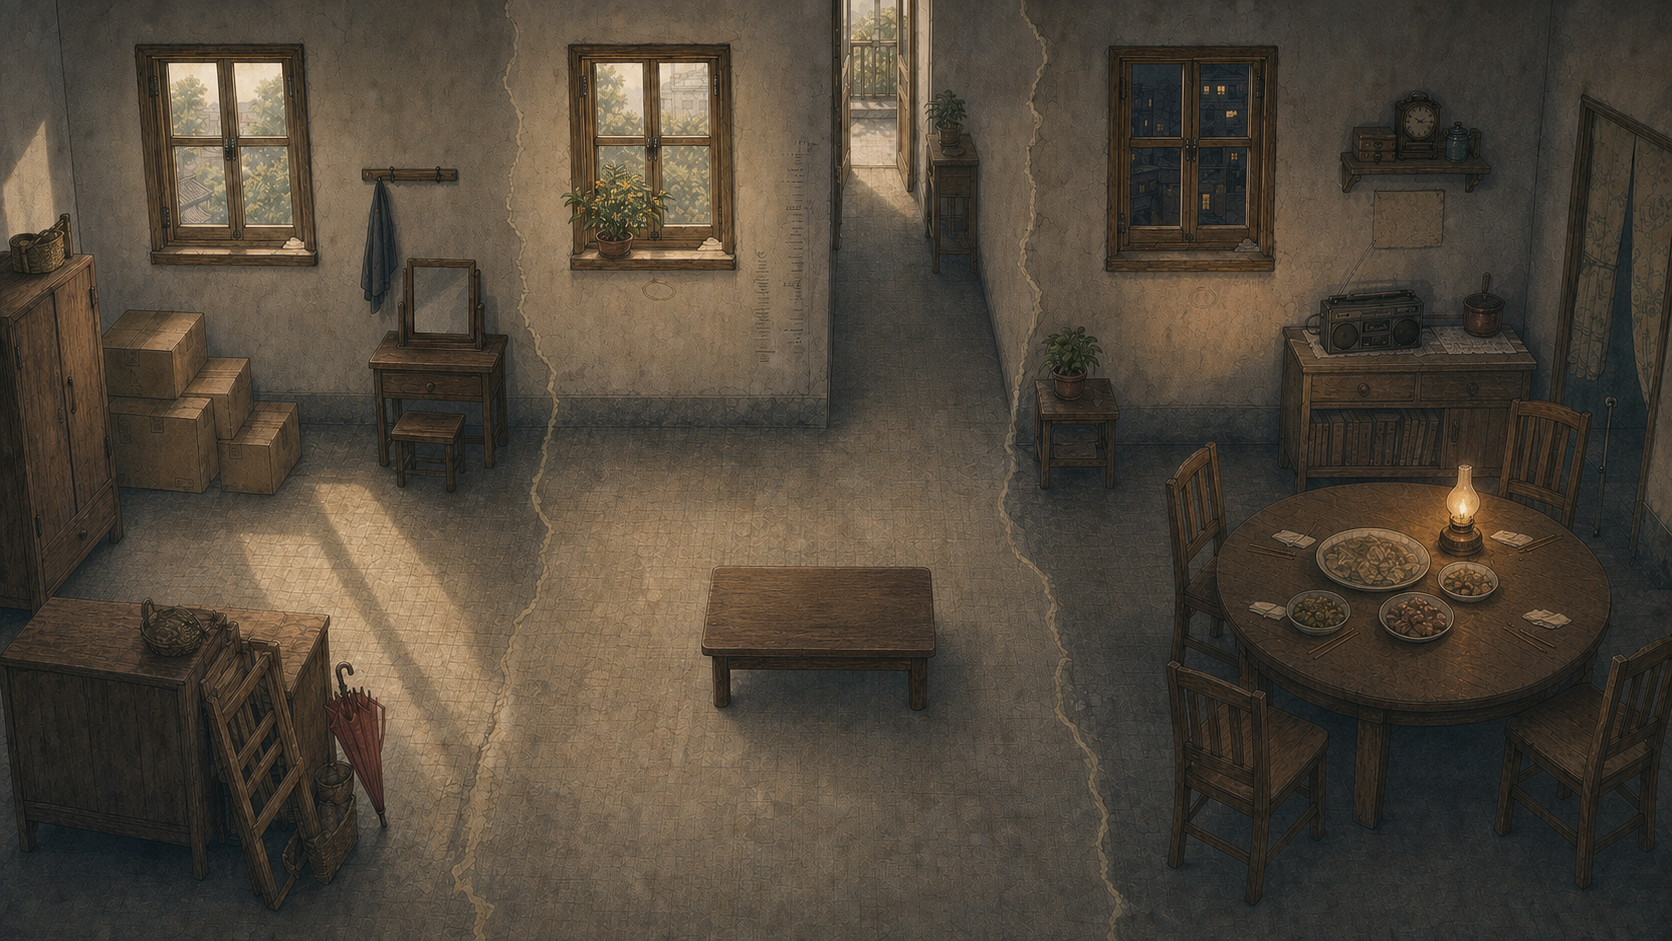
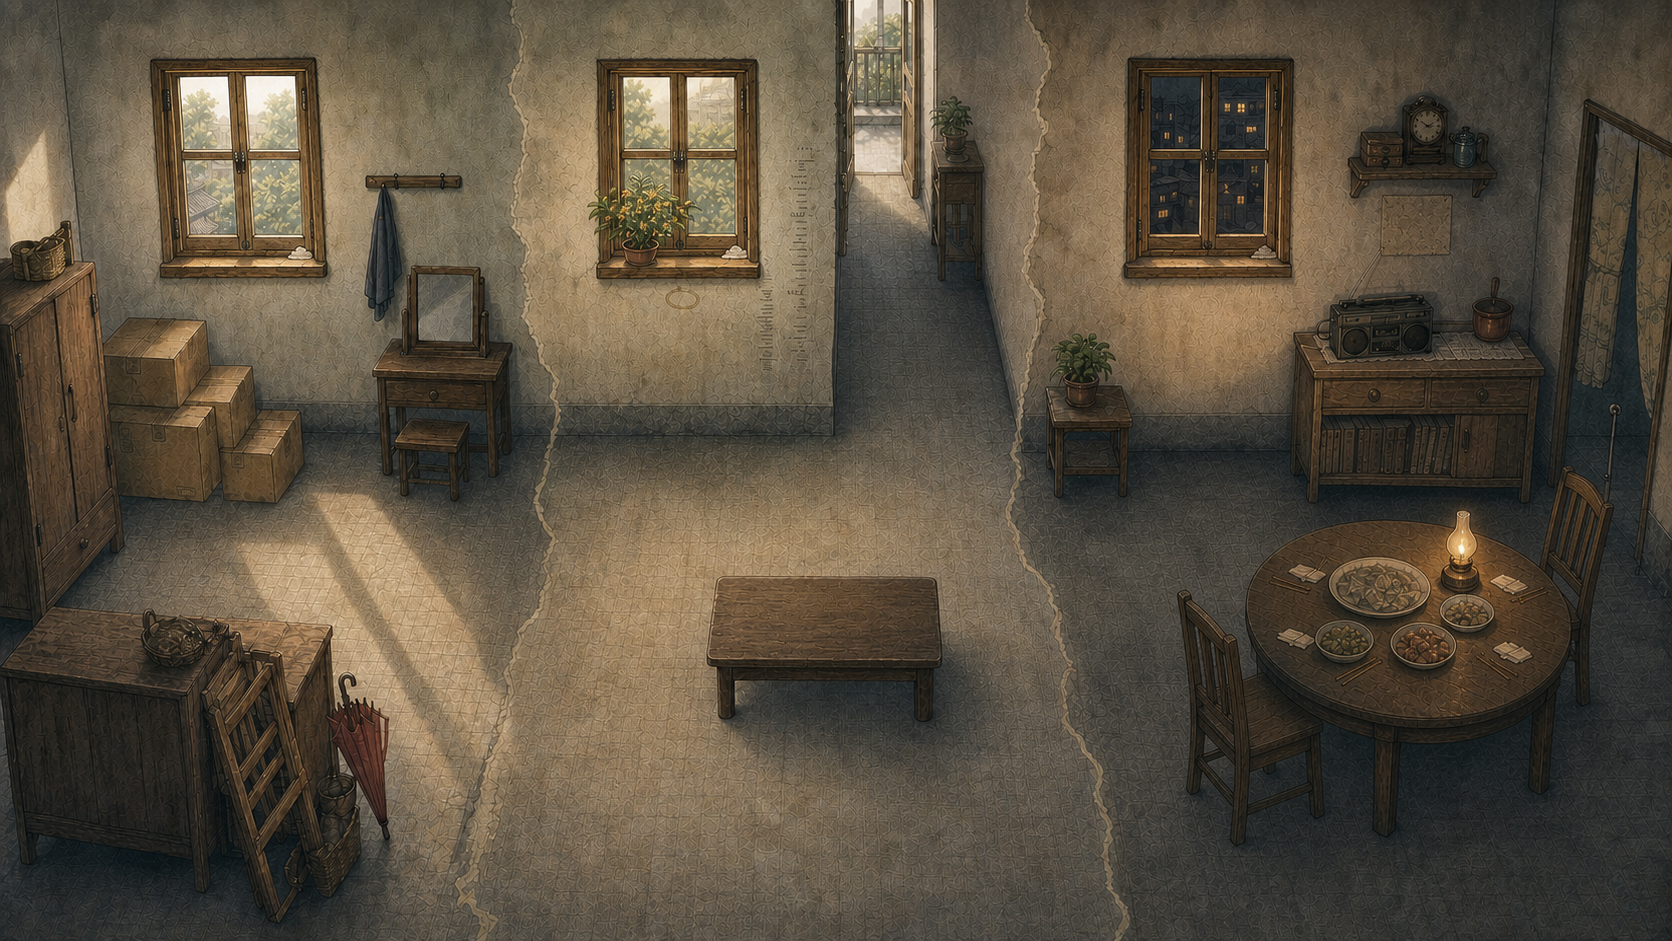
feat: refine shared life visual storytelling

Changed region(s): [[0.0, 0.0, 1.0, 1.0], [0.9952, 0.5547, 1.0, 0.5855], [0.4976, 0.9245, 0.5287, 0.9554]]

diff --git a/src/phaser/scenes/GameScene.ts b/src/phaser/scenes/GameScene.ts
@@ -105,6 +105,8 @@ export class GameScene extends Phaser.Scene {
   private unsubscribe: (() => void) | null = null;
   private reducedMotion = false;
   private tiledContent: TiledMapContent | null = null;
+  private lifeResolvedBackdrop: Phaser.GameObjects.Image | null = null;
+  private lifeResolvedTarget = -1;
   private lifeEraVeils: Phaser.GameObjects.Rectangle[] = [];
   private lifeEraVeilTargets: number[] = [];
 
@@ -289,6 +291,8 @@ export class GameScene extends Phaser.Scene {
     this.holdHandActor = null;
     this.lifeEraVeils = [];
     this.lifeEraVeilTargets = [];
+    this.lifeResolvedBackdrop = null;
+    this.lifeResolvedTarget = -1;
     this.xiulanReachStarted = false;
     this.playerAction = null;
     this.playerActionVersion += 1;
@@ -420,6 +424,12 @@ export class GameScene extends Phaser.Scene {
   }
 
   private createLifeBackdropDetails(state: Readonly<GameState>): void {
+    this.lifeResolvedBackdrop = this.add
+      .image(640, 360, 'environment.life.resolved')
+      .setDisplaySize(1280, 720)
+      .setAlpha(0)
+      .setDepth(4);
+
     const eraBands = [
       { x: 205, width: 410, color: 0xd8c28e },
       { x: 595, width: 370, color: 0xd8c66f },
@@ -429,31 +439,14 @@ export class GameScene extends Phaser.Scene {
       this.add.rectangle(x, 360, width, 720, color, 0).setDepth(8),
     );
     this.lifeEraVeilTargets = [-1, -1, -1];
-
-    for (const { year, x } of [
-      { year: '1979', x: 165 },
-      { year: '1992', x: 495 },
-      { year: '2001', x: 910 },
-    ]) {
-      this.add
-        .text(x, 215, year, {
-          color: '#2f2b28',
-          backgroundColor: '#eee7d8d9',
-          fontFamily: 'Georgia, "Noto Serif SC", serif',
-          fontSize: '17px',
-          padding: { x: 8, y: 3 },
-          stroke: '#756253',
-          strokeThickness: 1,
-        })
-        .setOrigin(0.5)
-        .setDepth(16);
-    }
     this.updateLifeVisualState(state);
   }
 
   private updateLifeVisualState(state: Readonly<GameState>): void {
     if (state.chapterId !== 'life') return;
     const placedObjects = state.puzzles.placedObjects ?? [];
+    const photosOrdered = state.flags.includes('puzzle.life.photo_order.completed');
+    const lifeCompleted = photosOrdered && placedObjects.length === 3;
 
     for (const view of this.entityViews) {
       const slot = lifeSlotPlacedFrames[view.definition.id];
@@ -465,7 +458,7 @@ export class GameScene extends Phaser.Scene {
 
     const items = ['item.life.wood_comb', 'item.life.enamel_cup', 'item.life.cassette'];
     for (let index = 0; index < this.lifeEraVeils.length; index += 1) {
-      const target = placedObjects.includes(items[index]) ? 0.015 : 0.085;
+      const target = placedObjects.includes(items[index]) ? 0.012 : photosOrdered ? 0.05 : 0.085;
       if (this.lifeEraVeilTargets[index] === target) continue;
       this.lifeEraVeilTargets[index] = target;
       const veil = this.lifeEraVeils[index];
@@ -474,6 +467,18 @@ export class GameScene extends Phaser.Scene {
         targets: veil,
         alpha: target,
         duration: state.settings.reducedMotion ? 140 : 420,
+        ease: 'Sine.easeInOut',
+      });
+    }
+
+    const resolvedTarget = lifeCompleted ? 0.9 : photosOrdered ? 0.18 : 0;
+    if (this.lifeResolvedBackdrop && this.lifeResolvedTarget !== resolvedTarget) {
+      this.lifeResolvedTarget = resolvedTarget;
+      this.tweens.killTweensOf(this.lifeResolvedBackdrop);
+      this.tweens.add({
+        targets: this.lifeResolvedBackdrop,
+        alpha: resolvedTarget,
+        duration: state.settings.reducedMotion ? 140 : lifeCompleted ? 680 : 420,
         ease: 'Sine.easeInOut',
       });
     }

diff --git a/tests/e2e/shared-life-art.spec.ts b/tests/e2e/shared-life-art.spec.ts
@@ -21,9 +21,9 @@ async function patchSave(page: Page, patch: Record<string, unknown>): Promise<vo
     ({ key, patch }) => {
       const state = JSON.parse(localStorage.getItem(key) ?? 'null');
       if (!state) throw new Error('Expected an existing save');
-      Object.assign(state, patch);
-      if (patch.puzzles) state.puzzles = { ...state.puzzles, ...patch.puzzles };
-      if (patch.settings) state.settings = { ...state.settings, ...patch.settings };
+      const puzzles = patch.puzzles ? { ...state.puzzles, ...patch.puzzles } : state.puzzles;
+      const settings = patch.settings ? { ...state.settings, ...patch.settings } : state.settings;
+      Object.assign(state, patch, { puzzles, settings });
       localStorage.setItem(key, JSON.stringify(state));
     },
     { key: SAVE_KEY, patch },
@@ -93,6 +93,21 @@ async function assertNoPageScroll(page: Page): Promise<void> {
   expect(metrics.htmlWidth).toBeLessThanOrEqual(metrics.viewportWidth);
   expect(metrics.bodyHeight).toBeLessThanOrEqual(metrics.viewportHeight);
   expect(metrics.htmlHeight).toBeLessThanOrEqual(metrics.viewportHeight);
+}
+
+async function canvasSampleColorCount(page: Page): Promise<number> {
+  return page.locator('canvas').evaluate((element) => {
+    const canvas = element as HTMLCanvasElement;
+    const context = canvas.getContext('2d');
+    if (!context) return 0;
+    const pixels = context.getImageData(0, 0, canvas.width, canvas.height).data;
+    const colors = new Set<string>();
+    const stride = Math.max(4, Math.floor((canvas.width * canvas.height) / 256) * 4);
+    for (let offset = 0; offset < pixels.length; offset += stride) {
+      colors.add(`${pixels[offset]},${pixels[offset + 1]},${pixels[offset + 2]}`);
+    }
+    return colors.size;
+  });
 }
 
 async function playerPosition(page: Page): Promise<{ x: number; y: number }> {
@@ -181,11 +196,13 @@ test('completes photo ordering, all three placements and the corridor exit', asy
   await moveTo(page, 850, 465);
   await moveTo(page, 740, 465);
   await interactWith(page, '空着三格的相册');
+  await capture(page, testInfo, 'shared-life-photo-clues');
 
   await page.getByRole('button', { name: '上移 1979 · 搬家' }).click();
   await page.getByRole('button', { name: '上移 1992 · 桂花窗台' }).click();
   await page.getByRole('button', { name: '确认顺序' }).click();
   await expect(page.locator('#app')).toHaveAttribute('data-checkpoint', 'checkpoint.life.photos');
+  await capture(page, testInfo, 'shared-life-photos-ordered');
 
   await moveTo(page, 740, 570);
   await moveTo(page, 320, 570);
@@ -207,19 +224,23 @@ test('completes photo ordering, all three placements and the corridor exit', asy
   await moveTo(page, 320, 385);
   await interactWith(page, '镜台 · 条纹槽');
   await page.getByRole('button', { name: '继续对白' }).click();
+  await capture(page, testInfo, 'shared-life-1979-stabilized');
 
   await moveTo(page, 585, 385);
   await moveTo(page, 585, 215);
   await interactWith(page, '窗台 · 圆点槽');
   await page.getByRole('button', { name: '继续对白' }).click();
+  await capture(page, testInfo, 'shared-life-1992-stabilized');
 
-  await moveTo(page, 1065, 205);
+  await moveTo(page, 940, 215);
+  await moveTo(page, 940, 385);
+  await moveTo(page, 1065, 385);
   await interactWith(page, '收音机 · 波纹槽');
   await page.getByRole('button', { name: '继续对白' }).click();
   await expect(page.locator('.objective-chip')).toContainText('走进房间上方延长的走廊');
   await capture(page, testInfo, 'shared-life-all-objects-placed');
 
-  await moveTo(page, 1065, 70);
+  await moveTo(page, 700, 385);
   await moveTo(page, 700, 70);
   await interactWith(page, '延长的走廊');
   await capture(page, testInfo, 'shared-life-exit-dialogue');
@@ -253,6 +274,8 @@ test('keeps Shared Life stable with low stimulation and reduced motion', async (
     activeMemoryId: null,
   });
   await continueSavedGame(page);
+  await expect(page.locator('#app')).toHaveAttribute('data-chapter', 'life');
+  await expect.poll(() => canvasSampleColorCount(page)).toBeGreaterThan(16);
   await expect(page.locator('html')).toHaveAttribute('data-motion', 'reduced');
   await expect(page.locator('.stage-chip')).toContainText('低扰动');
   await assertNoPageScroll(page);

diff --git a/src/styles.css b/src/styles.css
@@ -402,6 +402,13 @@ kbd {
   margin-left: 0.25rem;
   background: transparent;
 }
+.photo-clue-copy {
+  display: grid;
+  gap: 0.15rem;
+}
+.photo-clue-copy small {
+  color: color-mix(in srgb, var(--ink) 68%, transparent);
+}
 
 .title-screen {
   position: absolute;
@@ -694,6 +701,12 @@ html[data-motion='reduced'] *::after {
 }
 
 @media (max-width: 720px), (max-height: 620px) {
+  #app[data-chapter='life'] .dialogue-box {
+    bottom: 0.75rem;
+    gap: 0.35rem;
+    width: min(48rem, 84vw);
+    padding: 0.7rem 1rem;
+  }
   .objective-chip {
     max-width: 66vw;
   }

diff --git a/src/ui/AppShell.ts b/src/ui/AppShell.ts
@@ -37,6 +37,12 @@ const photoLabels: Record<string, string> = {
   'photo.2001': '2001 · 银婚蛋糕',
 };
 
+const photoClues: Record<string, string> = {
+  'photo.1979': '年份写在尚未拆开的纸箱角落。',
+  'photo.1992': '年份写在孩子的身高刻度旁。',
+  'photo.2001': '年份写在银婚蛋糕的小牌上。',
+};
+
 export class AppShell {
   private readonly hud = document.querySelector<HTMLDivElement>('#hud')!;
   private readonly panel = document.querySelector<HTMLDivElement>('#panel-layer')!;
@@ -231,7 +237,7 @@ export class AppShell {
     const rows = this.photoOrder
       .map(
         (id, index) =>
-          `<li><span>${index + 1}. ${photoLabels[id]}</span><span><button data-photo-up="${index}" aria-label="上移 ${photoLabels[id]}">↑</button><button data-photo-down="${index}" aria-label="下移 ${photoLabels[id]}">↓</button></span></li>`,
+          `<li><span class="photo-clue-copy"><span>${index + 1}. ${photoLabels[id]}</span><small>${photoClues[id]}</small></span><span><button data-photo-up="${index}" aria-label="上移 ${photoLabels[id]}">↑</button><button data-photo-down="${index}" aria-label="下移 ${photoLabels[id]}">↓</button></span></li>`,
       )
       .join('');
     return `<h2>把照片放回时间里</h2><p>年份、家具的新旧和桂花的高度都能提供线索。</p><ol class="photo-order">${rows}</ol><button class="primary" data-submit-photos>确认顺序</button>`;

diff --git a/src/game/assets/manifest.ts b/src/game/assets/manifest.ts
@@ -88,6 +88,13 @@ export const assetManifest = [
     preload: true,
   },
   {
+    key: 'environment.life.resolved',
+    type: 'image',
+    url: 'assets/environments/environment_life_resolved_v01.png',
+    chapter: 'life',
+    preload: true,
+  },
+  {
     key: 'environment.return.background',
     type: 'image',
     url: 'assets/environments/environment_return_v01.png',

diff --git a/docs/ASSET_REGISTRY.md b/docs/ASSET_REGISTRY.md
@@ -1,6 +1,6 @@
 # 《记忆的缝隙》资产登记台账
 
-> 最近更新：2026-06-27
+> 最近更新：2026-06-28
 > 规则来源：ART_BIBLE.md 第 8、9 节
 
 本表记录进入仓库的美术与音频资产。只有来源、许可证、锚点和审核状态完整的资产才能标记为 `shipped`。
@@ -63,7 +63,8 @@
 | environment.home.crosswall_overlay | 项目团队 | environment_home_v10.png + scripts/prepare_home_architecture_overlays.py | public/assets/environments/environment_home_crosswall_overlay_v01.png | 从项目背景机械提取；无新增素材 | review | Codex 透明通道静态查看 | 2026-06-25 | 中墙透明遮挡层，sortY=410 |
 | environment.home.frontwall_overlay | 项目团队 | environment_home_v10.png + scripts/prepare_home_architecture_overlays.py | public/assets/environments/environment_home_frontwall_overlay_v01.png | 从项目背景机械提取；无新增素材 | review | Codex 透明通道静态查看 | 2026-06-25 | 前墙与左下竖墙段透明遮挡层，sortY=705 |
 | environment.rain.background | 项目团队 | assets-source/art/environments/environment_rain_v01.svg | public/assets/environments/environment_rain_v01.png | 项目原创 SVG；无第三方素材 | review | Codex 浏览器验收 | 2026-06-22 | 1280×720；斜向站台、积水、石板与钟表铺雨棚 |
-| environment.life.background | 项目团队 | assets-source/art/environments/environment_life_v02_generated.png | public/assets/environments/environment_life_v02.png | 项目定制生成；OpenAI ImageGen；无第三方素材 | review | Codex 静态检查、Browser 与 Playwright 三视口验收 | 2026-06-27 | 1280×720；同一家庭在 1979/1992/2001 同时显影；三扇同源四格窗、中央相册桌、下中出生通道和上中延长走廊；不烘焙拾取物或年份文字 |
+| environment.life.background | 项目团队 | assets-source/art/environments/environment_life_v02_generated.png | public/assets/environments/environment_life_v02.png | 项目定制生成；OpenAI ImageGen；无第三方素材 | review | Codex 静态检查与 Playwright 三视口验收 | 2026-06-28 | 1280×720；同一家庭在 1979/1992/2001 同时显影；三扇窗严格复用相同外框、四格、插销与右下磕痕；右侧餐桌收小并提高夜景暗部可读性；不烘焙拾取物或年份文字 |
+| environment.life.resolved | 项目团队 | assets-source/art/environments/environment_life_resolved_v01_generated.png | public/assets/environments/environment_life_resolved_v01.png | 项目定制生成；OpenAI ImageGen；无第三方素材 | review | Codex 静态检查与 Playwright 完成态验收 | 2026-06-28 | 1280×720；与 Shared Life v02 构图注册的收束态；三件物品全部归位后短淡入，统一墙地与光线为连贯当代客厅印象；不承担谜题真值 |
 | environment.return.background | 项目团队 | assets-source/art/environments/environment_return_v01.svg | public/assets/environments/environment_return_v01.png | 项目原创 SVG；无第三方素材 | review | Codex 浏览器验收 | 2026-06-22 | 1280×720；重复十字长廊、四向地砖箭头与暗红伞痕 |
 | environment.ending.background | 项目团队 | assets-source/art/environments/environment_ending_v01.svg | public/assets/environments/environment_ending_v01.png | 项目原创 SVG；无第三方素材 | review | Codex 浏览器验收 | 2026-06-22 | 1280×720；回到现实清晨、暖白留白、桌上两碗热面 |
 | map.home | 项目团队 | public/assets/data/map.home.json | 同左 | 原创 Tiled 对象数据 | review | Codex 静态数据同步；本轮未跑自动化测试 | 2026-06-25 | Tiled 对象层提供出生区、稳定 ID 与 17 个家具/墙体碰撞矩形；v10 扩大上方开口并拆分左下竖墙以恢复储物间通道；右侧门洞只保留室内侧 hotspot，不要求走入门槛；门 hotspot 位于 `(1225, 560)` |
@@ -177,10 +178,10 @@
 
 ### environment.*.background
 
-- 制作方式：除 Shared Life v02 外使用项目原创 SVG；Shared Life v02 使用内置 OpenAI ImageGen `stylized-concept`，以三张既有生活记忆插图作为风格参考，再用 `precise-object-edit` 移除背景中会与独立交互物混淆的相册、杯子和照片。高分辨率原稿统一归档于 `assets-source`，运行时导出 1280×720 PNG。
+- 制作方式：除 Shared Life v02 外使用项目原创 SVG；Shared Life v02 使用内置 OpenAI ImageGen `stylized-concept` 建立手绘空间，再用 `precise-object-edit` 移除会与独立交互物混淆的相册、杯子和照片，并于 2026-06-28 再次定点编辑三扇窗、2001 暗部与右侧餐桌。`environment.life.resolved` 以修正后的 v02 为注册参考生成，只改变接缝与整体光线。高分辨率原稿统一归档于 `assets-source`，运行时导出 1280×720 PNG。
 - 运行时结构：背景只承担世界表现；出生点、交互对象和稳定 ID 继续来自对应 Tiled JSON 对象层，碰撞与玩法状态未写入图片。
 - 可读性约束：中央主路径保持低噪点，每章暖色焦点不超过一个；雨站数字石板、生活物品纹理和长廊方向均保留非颜色冗余。
-- 当前结论：五章候选背景已导出并接入 manifest。Shared Life v02 的三扇窗保持同源尺寸、四格比例、插销和磕痕，三个年代的磨损/光线/生活痕迹可区分；三视口入场截图、完整解谜与出口流程、低扰动/减少动态状态均纳入 Playwright 检查。外部美术审核前保持 `review`。
+- 当前结论：五章候选背景已导出并接入 manifest。Shared Life v02 的三扇窗严格复用同源尺寸、四格比例、插销和磕痕，三个年代的磨损/光线/生活痕迹可区分；照片完成、逐件归位和全部收束态由 View 读取既有领域状态淡变。三视口入场截图、完整解谜与出口流程、低扰动/减少动态状态均纳入 Playwright 检查。外部美术审核前保持 `review`。
 
 ### audio.theme.* / audio.ambience.*
 

diff --git a/docs/LEVEL_DESIGN.md b/docs/LEVEL_DESIGN.md
@@ -291,7 +291,7 @@
 └────────────────────────────────┘
 ~~~
 
-三个区域不是三间房，而是同一个家在三个时期的纸张叠影。三扇窗保持相同外框、四格比例、中央插销和右下磕痕；1979 木框较新，1992 有桂花、身高刻度和圆形杯印，2001 木框明显磨损并处于停电夜的柔暖光。准确年份由 Phaser 文字牌显示。相册桌位于视觉中心但留出左右绕行空间，上方中央走廊保持可达。
+三个区域不是三间房，而是同一个家在三个时期的纸张叠影。三扇窗保持相同外框、四格比例、中央插销和右下磕痕；1979 木框较新，1992 有桂花、身高刻度和圆形杯印，2001 木框明显磨损并处于停电夜的柔暖光。场景不直接显示年份牌；准确年份只在可检查的照片线索中出现，玩家也可通过纸箱与新家具、桂花高度、晚餐与人物年龄判断顺序。相册桌位于视觉中心但留出左右绕行空间，上方中央走廊保持可达。
 
 ### 6.3 关键对象
 
@@ -311,7 +311,9 @@
 
 上述十个照片、相册、物件与槽位的 `visual_props` 已使用 v02 `prop_life_shared_life_atlas` Tiled tileset：frame 0–2 为不含生成式年份文字的三张照片，frame 3 为空相册，frame 4–6 为木梳、搪瓷杯、录音带，frame 7–9 为三处放置槽。所有对象保留 Tiled tile object 左下角锚点与 44×44 运行时尺寸；物件拾取后隐藏，归位后槽位实体切换到 frame 4–6。`entity.life.exit` 的正式视觉由 v02 背景中的延长走廊承担，因此不再保留伪造的 `visual_props` 占位对象。
 
-`collision` 层使用 1280×720 运行时边界，并为相册桌、镜台、收音机柜、纪念日晚餐桌、纸箱和左下前景柜建立脚印矩形；纸箱与镜台脚印之间保留不少于一个角色脚部宽度的通道，顶部外墙在 x=620–780 留出走廊口。`navigation` 恢复区为 x=32–1248、y=32–688，玩家不会走出可见画布。
+`collision` 层使用 1280×720 运行时边界，并为相册桌、镜台、收音机柜、纪念日晚餐桌、纸箱和左下前景柜建立脚印矩形；右侧餐桌脚印为 x=960–1230、y=420–640，与收小后的桌面一致，并在收音机柜下方留出可接近槽位的通道。纸箱与镜台脚印之间保留不少于一个角色脚部宽度的通道，顶部外墙在 x=620–780 留出走廊口。`navigation` 恢复区为 x=32–1248、y=32–688，玩家不会走出可见画布。
+
+表现层只读取既有领域状态：初始保留三段低透明度叠影；`puzzle.life.photo_order.completed` 后全部年代接缝先收束一次；`placedObjects` 中每增加一件物品，对应年代薄雾继续降低；三件全部归位后淡入 `environment.life.resolved`，短暂形成连贯的当代客厅印象，再由原有出口流程进入第四章。以上变化不新增进度字段，也不参与碰撞或谜题判断。
 
 ### 6.4 D2 触发
 

diff --git a/docs/ART_BIBLE.md b/docs/ART_BIBLE.md
@@ -107,9 +107,9 @@
 
 环境候选以原创 SVG 或归档的高分辨率生成原稿保存于 `assets-source/art/environments/`，通过 `npm run assets:render:environments` 统一导出 1280×720 运行时 PNG。背景只承担地板、墙体、门窗洞口和中性环境光；出生点、交互对象和稳定 ID 仍由 Tiled JSON 对象层提供。可变化的直射光、窗格影子和光斑必须使用独立 overlay，不烘焙进背景。
 
-第三章 Shared Life v02 以“同一个家在三个年代同时显影”为构图基线。1979、1992、2001 三个区域各有一扇同源四格木窗：外框尺寸、窗格比例、中央插销与右下磕痕保持一致，只改变木框磨损、玻璃光线和生活痕迹。左侧保留纸箱与镜台，中段以桂花窗台、身高刻度和圆形水印形成最暖区域，右侧以收音机与停电纪念日晚餐形成柔和夜景；下中出生区、绕行相册桌的主通道与上中延长走廊必须始终清楚。准确年份由 Phaser 文字牌绘制，不写入生成背景或照片像素。
+第三章 Shared Life v02 以“同一个家在三个年代同时显影”为构图基线。1979、1992、2001 三个区域各有一扇同源四格木窗：外框尺寸、窗格比例、中央插销与右下磕痕保持一致，只改变木框磨损、玻璃光线和生活痕迹。左侧保留纸箱与镜台，中段以桂花窗台、身高刻度和圆形水印形成最暖区域，右侧以收音机与停电纪念日晚餐形成柔和夜景；下中出生区、绕行相册桌的主通道与上中延长走廊必须始终清楚。场景中不悬挂年份牌；准确年份只在可检查的照片线索中以 DOM 可控排版显示，不写入生成背景或照片像素。
 
-Shared Life 背景不得烘焙三张松散照片、木梳、搪瓷杯、录音带或空相册。上述对象继续使用透明图集；归位前显示条纹托盘、圆点垫和波纹凹槽，归位后同一实体视图切换为对应实物 frame。三段年代叠影只做低透明度淡变；每归位一件物品，对应年代薄雾收束一次，减少动态效果下使用 140 毫秒短淡变。
+Shared Life 背景不得烘焙三张松散照片、木梳、搪瓷杯、录音带或空相册。上述对象继续使用透明图集；归位前显示条纹托盘、圆点垫和波纹凹槽，归位后同一实体视图切换为对应实物 frame。三段年代叠影只做低透明度淡变：照片排序完成后先降低全部接缝薄雾，每归位一件物品再收束对应年代；三件全部归位后，以 `environment.life.resolved` 短淡变叠入连贯的当代客厅印象。减少动态效果下所有阶段统一使用 140 毫秒短淡变。
 
 清晨住宅中的床边合影、红线日记、蓝色钥匙碗和眼镜盒使用独立透明 PNG，不烘焙进环境背景；运行时由 Tiled 稳定 ID 定位，拾取后随实体视图一起隐藏。
 

diff --git a/README.md b/README.md
@@ -58,6 +58,8 @@ npm run assets:render:home-overlays
 npm run assets:render:environments
 ~~~
 
+`assets:prepare:life-environment` 会同时导出第三章初始年代叠影背景与三件物品全部归位后的收束态背景。
+
 首次运行浏览器端到端测试前，需要安装 Playwright 浏览器；Edge 项目还需要系统已安装 Microsoft Edge：
 
 ~~~bash

diff --git a/docs/TECHNICAL_DESIGN.md b/docs/TECHNICAL_DESIGN.md
@@ -221,7 +221,7 @@ stateDiagram-v2
 - 指针点击与确认键共用近距离交互入口，Scene 只发送实体 ID，不在表现层判断交互结果；
 - 将 Phaser 键盘输入送入 InputMapper；
 - 读取 GameStore 快照更新角色、物件、特效和声音；
-- Shared Life 通过同一 `visual_props` actor 在槽位 frame 与归位物件 frame 之间切换；领域层 `placedObjects` 仍是唯一真值。三个年代薄雾只读取归位进度做淡变，不参与碰撞或答案判断；准确年份使用 Phaser 文字绘制。
+- Shared Life 通过同一 `visual_props` actor 在槽位 frame 与归位物件 frame 之间切换；领域层 `puzzle.life.photo_order.completed` 与 `placedObjects` 仍是唯一真值。三个年代薄雾先随照片排序完成整体收束，再随对应物件归位局部收束；三件全部归位后淡入 `environment.life.resolved` 当代客厅印象。所有淡变只属于 View，不参与碰撞或答案判断；场景不绘制年份牌，准确年份只由照片面板的 DOM 可控文字显示。
 - Scene 或 Game 进入销毁阶段后忽略迟到的状态通知；动画注册表尚不可用时显示同方向静态首帧，避免刷新恢复与页面卸载竞态；
 - 不直接判断谜题完成、提示等级或存档条件。
 